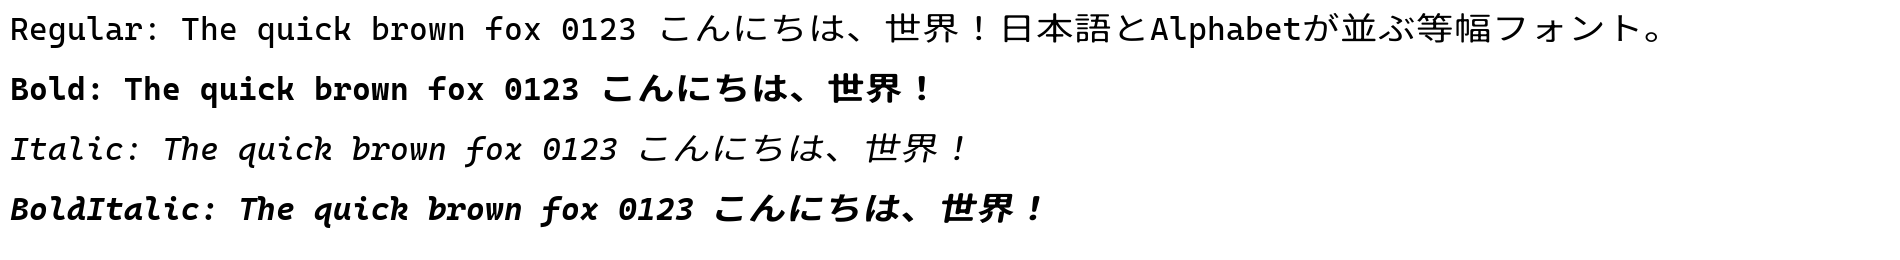
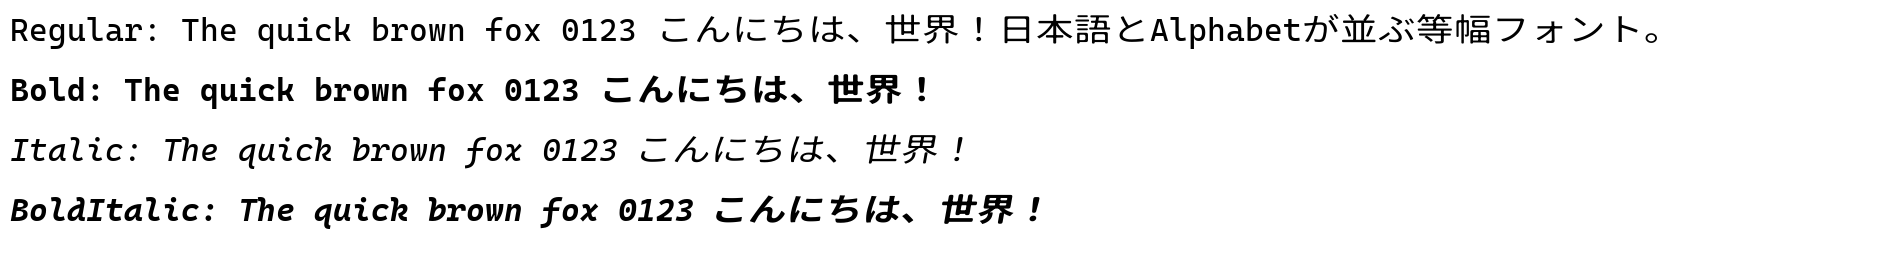
Fix Japanese glyph contours for v0.9.2

diff --git a/scripts/corner_round.py b/scripts/corner_round.py
@@ -104,33 +104,41 @@ def _round_contour(contour, radius, angle_threshold_deg):
             k = (k + 1) % n
         return out
 
-    nc = fontforge.contour()
-    nc.is_quadratic = True
-    nc.closed = True
-
+    # 新しい輪郭の点列を先に組み立てる（on/off, x, y）。
+    # pen プロトコル (moveTo/lineTo/quadraticTo) で構築すると、始点に戻って
+    # 閉じる最後の点が「重複したオンカーブ点」として余分に残ってしまい、
+    # 結果として長さ0の閉じ辺ができて selfIntersects() が誤検出される問題があった。
+    # そのため、元の輪郭と同じ「始点を末尾で繰り返さない」点列を直接組み立てる。
     start_i = on_indices[0]
-    sx, sy = start_point(start_i)
-    nc.moveTo(sx, sy)
+    waypoints = [(True, start_point(start_i))]
 
     m = len(on_indices)
     for k in range(m):
         i = on_indices[k]
         nxt = on_indices[(k + 1) % m]
         ctrl_pts = between(i, nxt)
-        ex, ey = end_point(nxt)
 
-        if len(ctrl_pts) == 0:
-            nc.lineTo(ex, ey)
-        elif len(ctrl_pts) == 1:
-            c = ctrl_pts[0]
-            nc.quadraticTo(c.x, c.y, ex, ey)
-        else:
+        if len(ctrl_pts) > 1:
             # 想定外（オフカーブが2点以上連続）の場合は丸めを諦めて元形状を使う
             return None
+        for c in ctrl_pts:
+            waypoints.append((False, (c.x, c.y)))
 
+        waypoints.append((True, end_point(nxt)))
         if nxt in corners:
             p = pts[nxt]
-            bx, by = start_point(nxt)
-            nc.quadraticTo(p.x, p.y, bx, by)
+            waypoints.append((False, (p.x, p.y)))
+            waypoints.append((True, start_point(nxt)))
+
+    # 末尾が始点と同じオンカーブ点で終わっている場合、それは重複なので取り除く
+    # （closed=True にすることで、最後の点から始点への接続は自動的に扱われる）
+    if len(waypoints) > 1 and waypoints[-1] == waypoints[0]:
+        waypoints.pop()
+
+    nc = fontforge.contour()
+    nc.is_quadratic = True
+    for on_curve, (x, y) in waypoints:
+        nc += fontforge.point(x, y, on_curve)
+    nc.closed = True
 
     return nc

diff --git a/scripts/03_merge_fix.py b/scripts/03_merge_fix.py
@@ -16,7 +16,7 @@ SOURCE_DIR = ROOT / "source"
 LICENSE_PATH = ROOT / "LICENSE.txt"
 
 FONT_NAME = "serein"
-VERSION = "0.901"
+VERSION = "0.902"
 VENDOR = "TWR"  # 任意のベンダー4文字コード
 
 # 行間（上下）をほんの少しだけ広げるための追加量。em=2048 に対する絶対値で、
